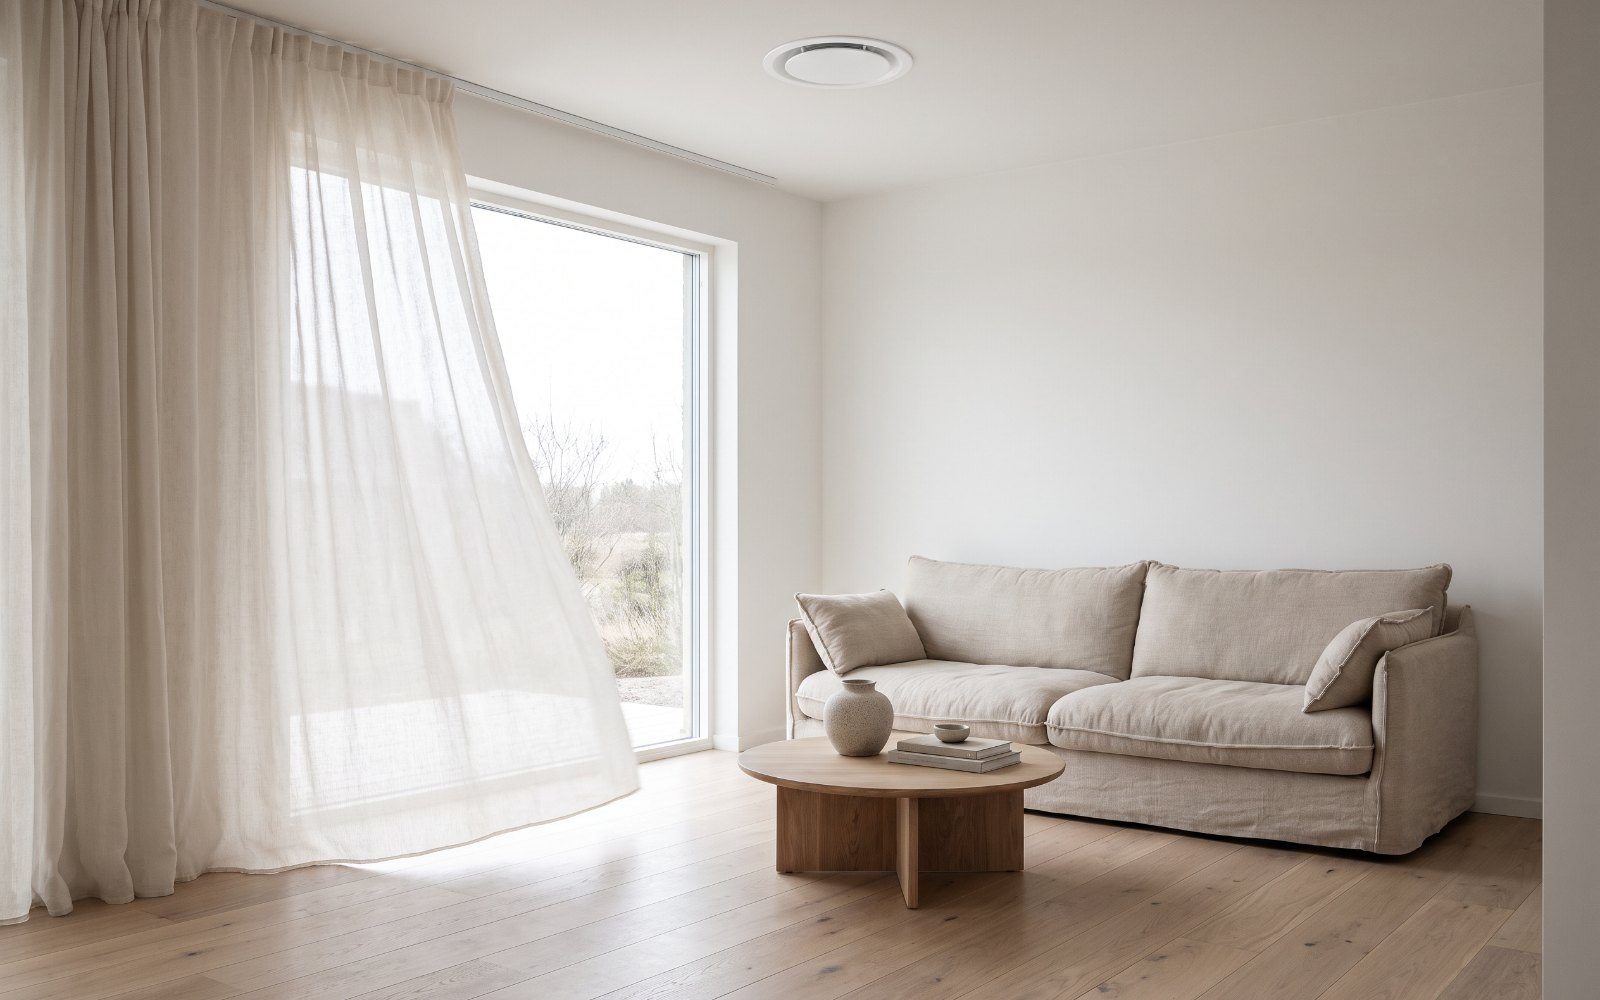
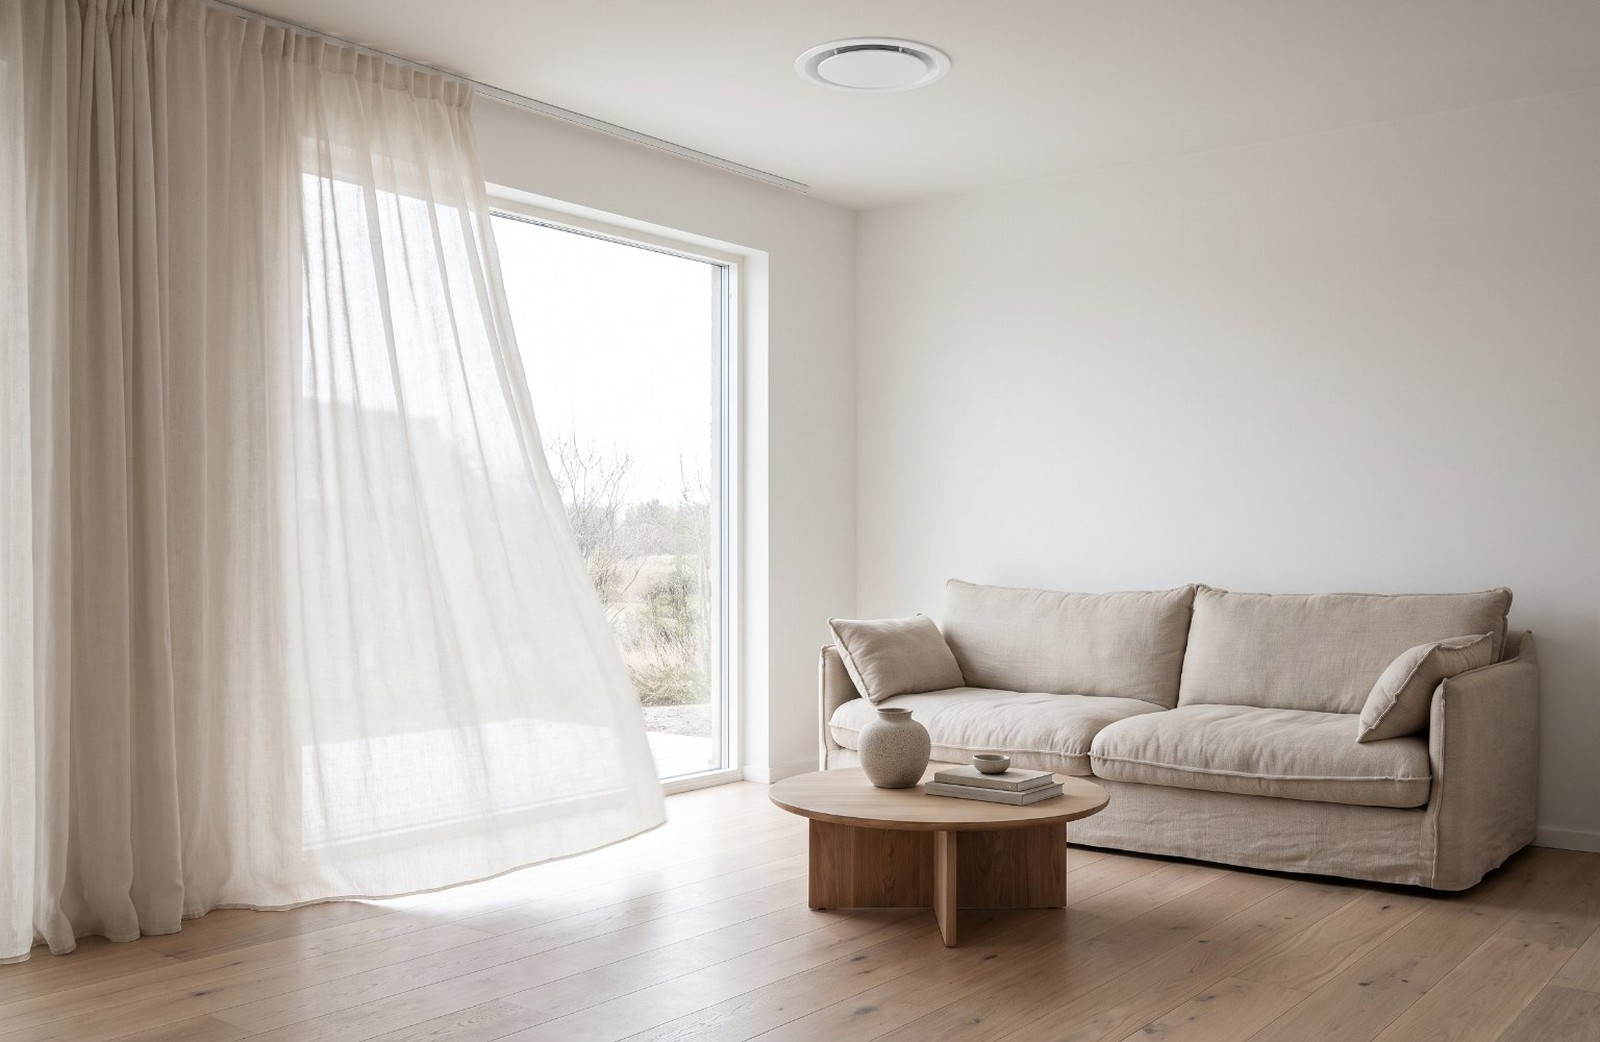
Диффузоры: виды с фото из каталога; фото первого экрана без тёмной полосы справа

diff --git a/src/pages/HomePage/HomeHero.jsx b/src/pages/HomePage/HomeHero.jsx
@@ -14,7 +14,7 @@ export default function HomeHero() {
           src={photo.src}
           alt={site.heroImage.alt}
           width="1600"
-          height="1000"
+          height="1042"
           loading="eager"
           decoding="async"
         />

diff --git a/images/README.md b/images/README.md
@@ -29,6 +29,11 @@
 | Файл | Что на фото |
 | --- | --- |
 | `vent-l2.jpg` | Вентиляционные установки Blizzard — главное фото категории (L2) |
+| `vent-diff-d2-round.jpg` | Диффузор D2 R круглый (каталог Blizzard 2025) |
+| `vent-diff-d2-square.jpg` | Диффузор D2 Q квадратный (каталог) |
+| `vent-diff-d2-floor.jpg` | Напольная решётка D2 (каталог) |
+| `vent-diff-d4-round.jpg` | Архитектурный диффузор D4 R (каталог) |
+| `vent-diff-d4-linear.jpg` | Линейный диффузор D4 (каталог) |
 | `vent-l2-unit.jpg` | Blizzard L2 DP (из каталога Blizzard 2025) |
 | `vent-l3.jpg` | Blizzard L3 ES (из каталога Blizzard 2025) |
 | `vent-l5-450.jpg` | Blizzard L5 450 (из каталога Blizzard 2025) |
